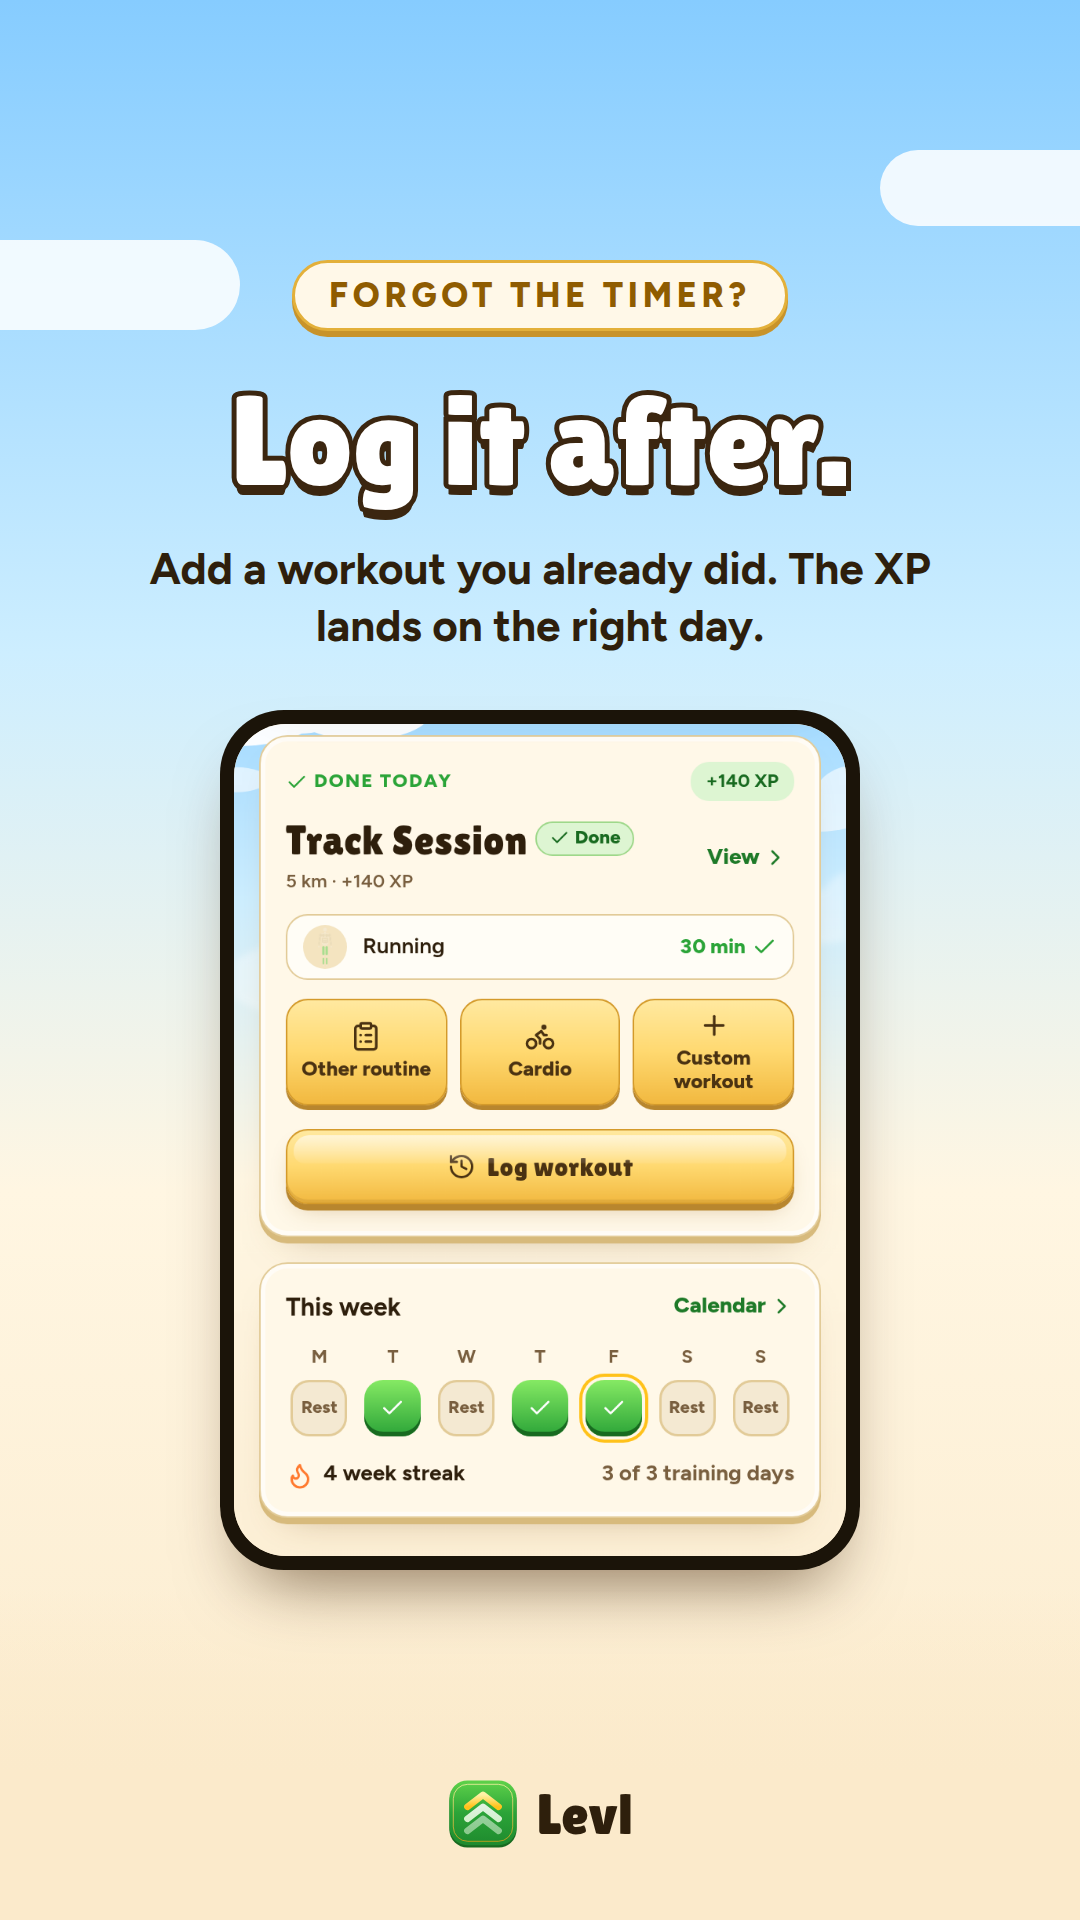
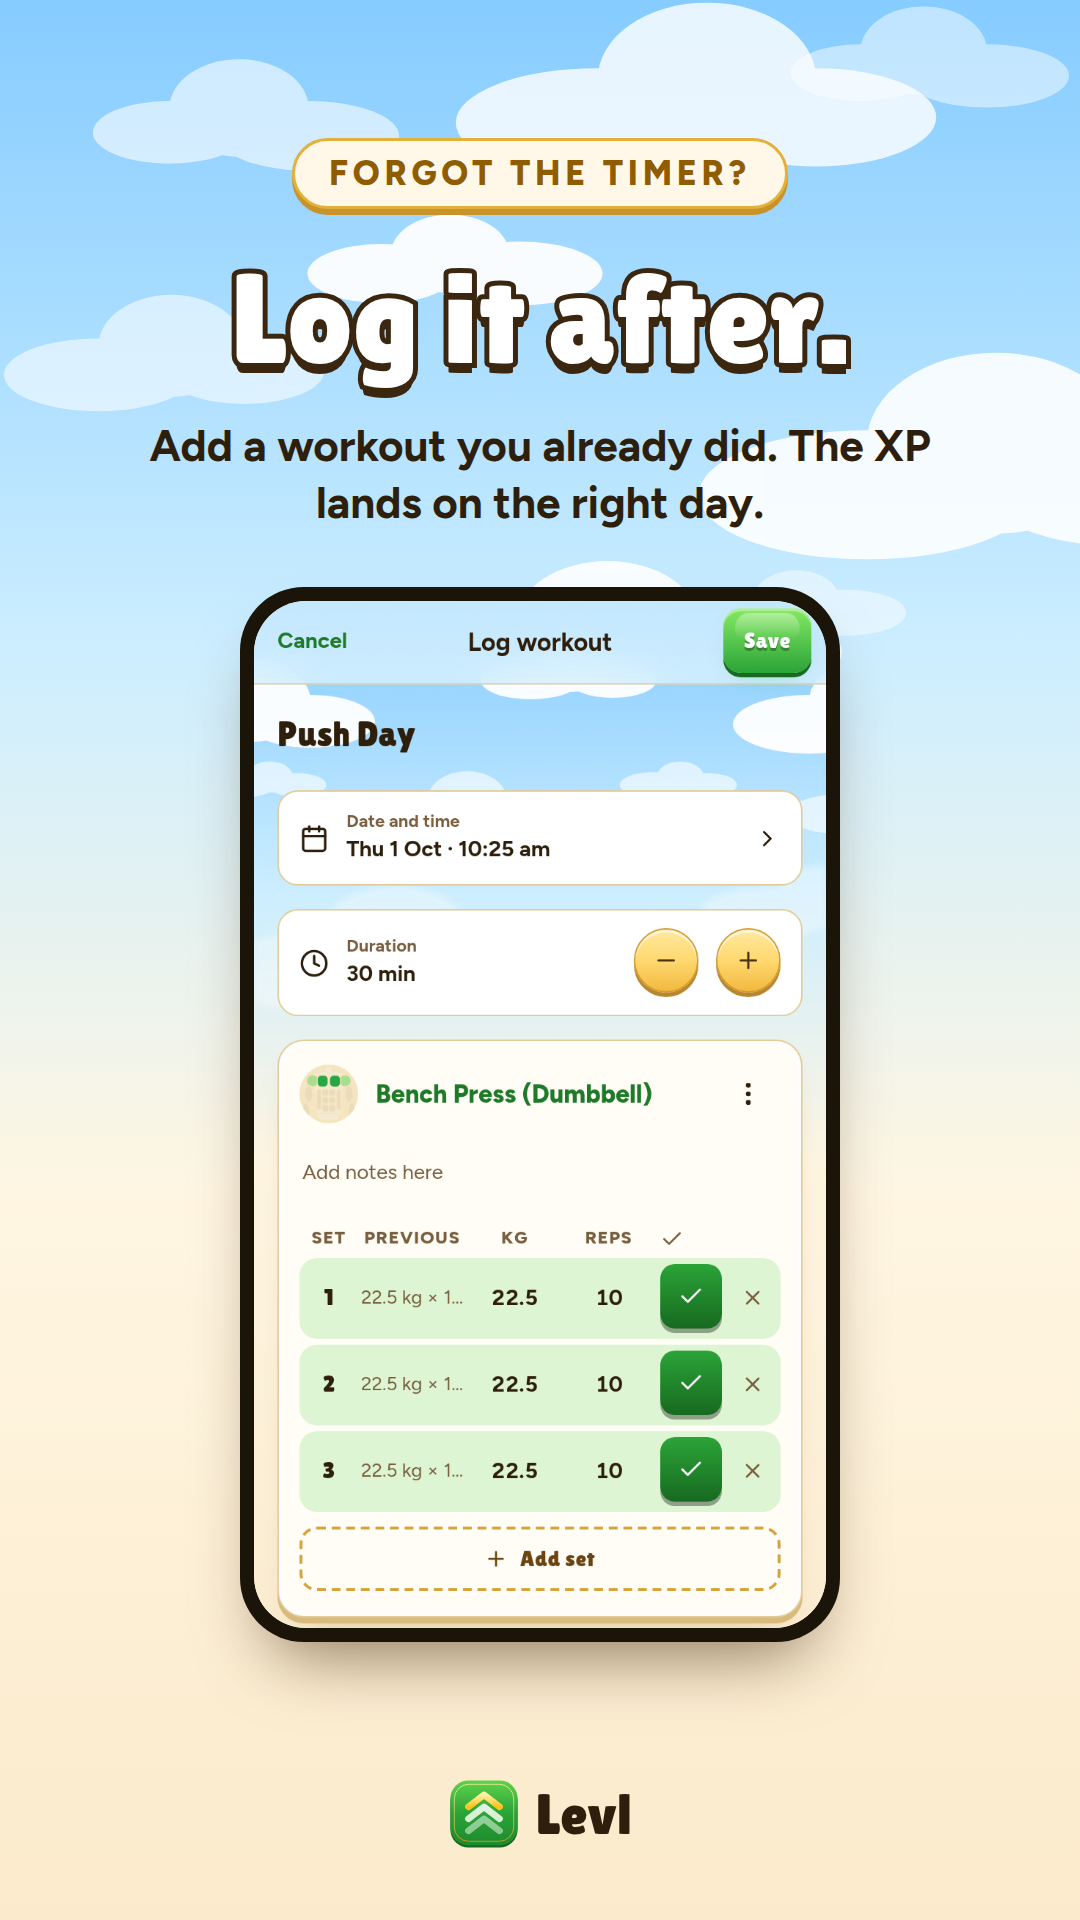
Marketing round 2: best-case stories, an Instagram carousel, the app's real clouds
Stories now show Home before today's workout, the S-Rank Hunter card, laps,
the Log workout screen, and the waitlist ask in an Instagram version (room for
the link sticker) and a WhatsApp version (link printed). A 6-slide 4:5
carousel is cut from one wide sky so the clouds run across the seams. Clouds
use the app's own cloud shapes. All screens use demo data.

Claude-Session: https://claude.ai/code/session_01JqhPR5kcZTR7DF59P4YK2A

diff --git a/docs/marketing/stories.html b/docs/marketing/stories.html
@@ -16,7 +16,9 @@ h1 { font-size: clamp(40px, 7vw, 64px); line-height: 1; color: #fff; -webkit-tex
 h2 { font-size: 24px; }
 .lede { max-width: 66ch; margin: 10px 0 0; font-weight: 700; }
 .tag { display: inline-block; font-size: 12px; font-weight: 800; letter-spacing: .14em; text-transform: uppercase; color: #8f5c00; background: var(--paper); border: 2px solid var(--gold); border-radius: 999px; padding: 4px 14px; box-shadow: 0 3px 0 #c8932a; margin-bottom: 14px; }
-.strip { display: grid; grid-template-columns: repeat(auto-fill, minmax(min(100%, 200px), 1fr)); gap: 18px; }
+.strip { display: grid; grid-template-columns: repeat(auto-fill, minmax(min(100%, 160px), 1fr)); gap: 16px; }
+.carousel { display: flex; gap: 0; overflow-x: auto; scroll-snap-type: x mandatory; border-radius: 16px; box-shadow: 0 4px 0 var(--bevel); }
+.carousel img { flex: none; width: min(100%, 420px); aspect-ratio: 4 / 5; scroll-snap-align: start; display: block; }
 figure { margin: 0; display: flex; flex-direction: column; gap: 8px; min-width: 0; }
 figure img { display: block; width: 100%; aspect-ratio: 9 / 16; border-radius: 18px; box-shadow: 0 4px 0 var(--bevel), 0 18px 30px -18px rgba(60, 30, 0, .55); background: var(--paper); }
 figcaption { font-size: 14px; font-weight: 700; }
@@ -36,25 +38,43 @@ code { font-weight: 800; color: var(--ink); }
   <header>
     <span class="tag">Early access · by invite</span>
     <h1>Levl teaser stories</h1>
-    <p class="lede">Five 9:16 stories for WhatsApp Status and Instagram Stories, made from screenshots of the real app. Post them in order. The last one sends people to the waitlist.</p>
+    <p class="lede">Stories and an Instagram carousel made from the real app, filled with demo data. Every set ends with the waitlist.</p>
   </header>
 
-  <section class="strip" aria-label="The five stories">
-    <figure><img src="levl-story-1-game.png" alt="Your workouts, now a game. Home screen with level 6, D rank and today's training." loading="eager"><figcaption>1. The hook<span>Home: level, rank, streak</span></figcaption></figure>
-    <figure><img src="levl-story-2-rank.png" alt="Climb from E to S rank. The Rank Road with the D-Rank Hunter card." loading="eager"><figcaption>2. The goal<span>Rank Road, E to S</span></figcaption></figure>
-    <figure><img src="levl-story-3-laps.png" alt="Every lap counts. A run with five laps and the fastest marked." loading="eager"><figcaption>3. For runners<span>Laps and the fastest lap</span></figcaption></figure>
-    <figure><img src="levl-story-4-log.png" alt="Log it after. The Log workout button on Home." loading="eager"><figcaption>4. No excuses<span>Log a workout after</span></figcaption></figure>
-    <figure><img src="levl-story-5-join.png" alt="Want in? Three steps and the waitlist link tally.so/r/kdMyYM." loading="eager"><figcaption>5. The ask<span>Waitlist link</span></figcaption></figure>
+  <section class="card">
+    <h2>Stories, 9:16</h2>
+    <p class="note">For WhatsApp Status and Instagram Stories. Post 1 to 5 in order. Story 5 comes in two versions: Instagram leaves room for your link sticker, WhatsApp prints the link.</p>
+    <div class="strip" aria-label="The stories">
+      <figure><img src="levl-story-1-game.png" alt="Your workouts, now a game. Home before today's workout, with Start." loading="eager"><figcaption>1. The hook<span>Home, today still to do</span></figcaption></figure>
+      <figure><img src="levl-story-2-rank.png" alt="Climb from E to S rank. The S-Rank Hunter card on the Rank Road." loading="eager"><figcaption>2. The goal<span>S-Rank Hunter</span></figcaption></figure>
+      <figure><img src="levl-story-3-laps.png" alt="Every lap counts. A run with five laps, the fastest marked." loading="eager"><figcaption>3. For runners<span>Laps</span></figcaption></figure>
+      <figure><img src="levl-story-4-log.png" alt="Log it after. The Log workout screen dated yesterday." loading="eager"><figcaption>4. No excuses<span>Log workout</span></figcaption></figure>
+      <figure><img src="levl-story-5-join-instagram.png" alt="Want in? Three steps and an empty space for the link sticker." loading="eager"><figcaption>5. Instagram<span>Add the link sticker in the dashed box</span></figcaption></figure>
+      <figure><img src="levl-story-5-join-whatsapp.png" alt="Want in? Three steps and the waitlist link." loading="eager"><figcaption>5. WhatsApp<span>Link printed, and in the caption</span></figcaption></figure>
+    </div>
+  </section>
+
+  <section class="card">
+    <h2>Instagram carousel, 4:5</h2>
+    <p class="note">Six slides cut from one wide sky, so the clouds run on from one slide to the next as people swipe. Upload all six in this order.</p>
+    <div class="carousel" aria-label="The carousel slides, swipe sideways">
+      <img src="levl-carousel-1.png" alt="Slide 1: Your workouts, now a game." loading="eager">
+      <img src="levl-carousel-2.png" alt="Slide 2: Every set earns XP. The XP earned breakdown." loading="eager">
+      <img src="levl-carousel-3.png" alt="Slide 3: Climb from E to S rank." loading="eager">
+      <img src="levl-carousel-4.png" alt="Slide 4: Every lap counts." loading="eager">
+      <img src="levl-carousel-5.png" alt="Slide 5: Log it after." loading="eager">
+      <img src="levl-carousel-6.png" alt="Slide 6: Want in? Link in bio." loading="eager">
+    </div>
   </section>
 
   <div class="two">
     <section class="card">
       <h2>Save and post</h2>
       <ol>
-        <li>On a phone, press and hold a story, then Save image (on a computer, right-click and Save image as). Each is 1080 by 1920.</li>
-        <li><b>Instagram:</b> on story 5, add a Link sticker with <code>https://tally.so/r/kdMyYM</code> and place it over the dashed box.</li>
-        <li><b>WhatsApp Status:</b> links in images can't be tapped, so paste the caption below with the link when you post story 5.</li>
-        <li>Post 1 to 5 in one go, at an hour your friends check their phones (around 8 to 9 pm).</li>
+        <li>On a phone, press and hold an image, then Save image (on a computer, right-click and Save image as).</li>
+        <li><b>Instagram story 5:</b> add a Link sticker with <code>https://tally.so/r/kdMyYM</code> over the dashed box.</li>
+        <li><b>WhatsApp Status:</b> post story 5 (WhatsApp) and paste the WhatsApp caption with it.</li>
+        <li><b>Carousel:</b> put <code>tally.so/r/kdMyYM</code> in your Instagram bio before posting, then use the carousel caption.</li>
       </ol>
       <p class="note">When new names land in the waitlist, tell me "invite the new people" in our chat.</p>
     </section>
@@ -62,13 +82,19 @@ code { font-weight: 800; color: var(--ink); }
     <section class="card">
       <h2>Captions</h2>
       <div class="cap">
+        <p id="cap-car">Levl turns your training into a game. Every set earns XP, every workout moves you up the Rank Road from E to S, and runners get a Lap button that marks their fastest lap.
+
+Forgot to start the timer? Log the workout after and the XP still lands on the right day.
+
+Early access is invite only. Join the waitlist through the link in my bio and your invite comes by email.
+
+#fitness #workout #gym #running #levelup #fitnessjourney</p>
+        <button type="button" data-copy="cap-car">Copy carousel caption</button>
+      </div>
+      <div class="cap">
         <p id="cap-wa">Building a workout app that turns your training into a game: XP for every set, levels, ranks from E to S. Early access is invite only. Join the waitlist and I'll send you an invite:
 https://tally.so/r/kdMyYM</p>
         <button type="button" data-copy="cap-wa">Copy WhatsApp caption</button>
-      </div>
-      <div class="cap">
-        <p id="cap-ig">Levl: your workouts, now a game. Opening in small batches. Waitlist link in the sticker.</p>
-        <button type="button" data-copy="cap-ig">Copy Instagram caption</button>
       </div>
     </section>
   </div>
